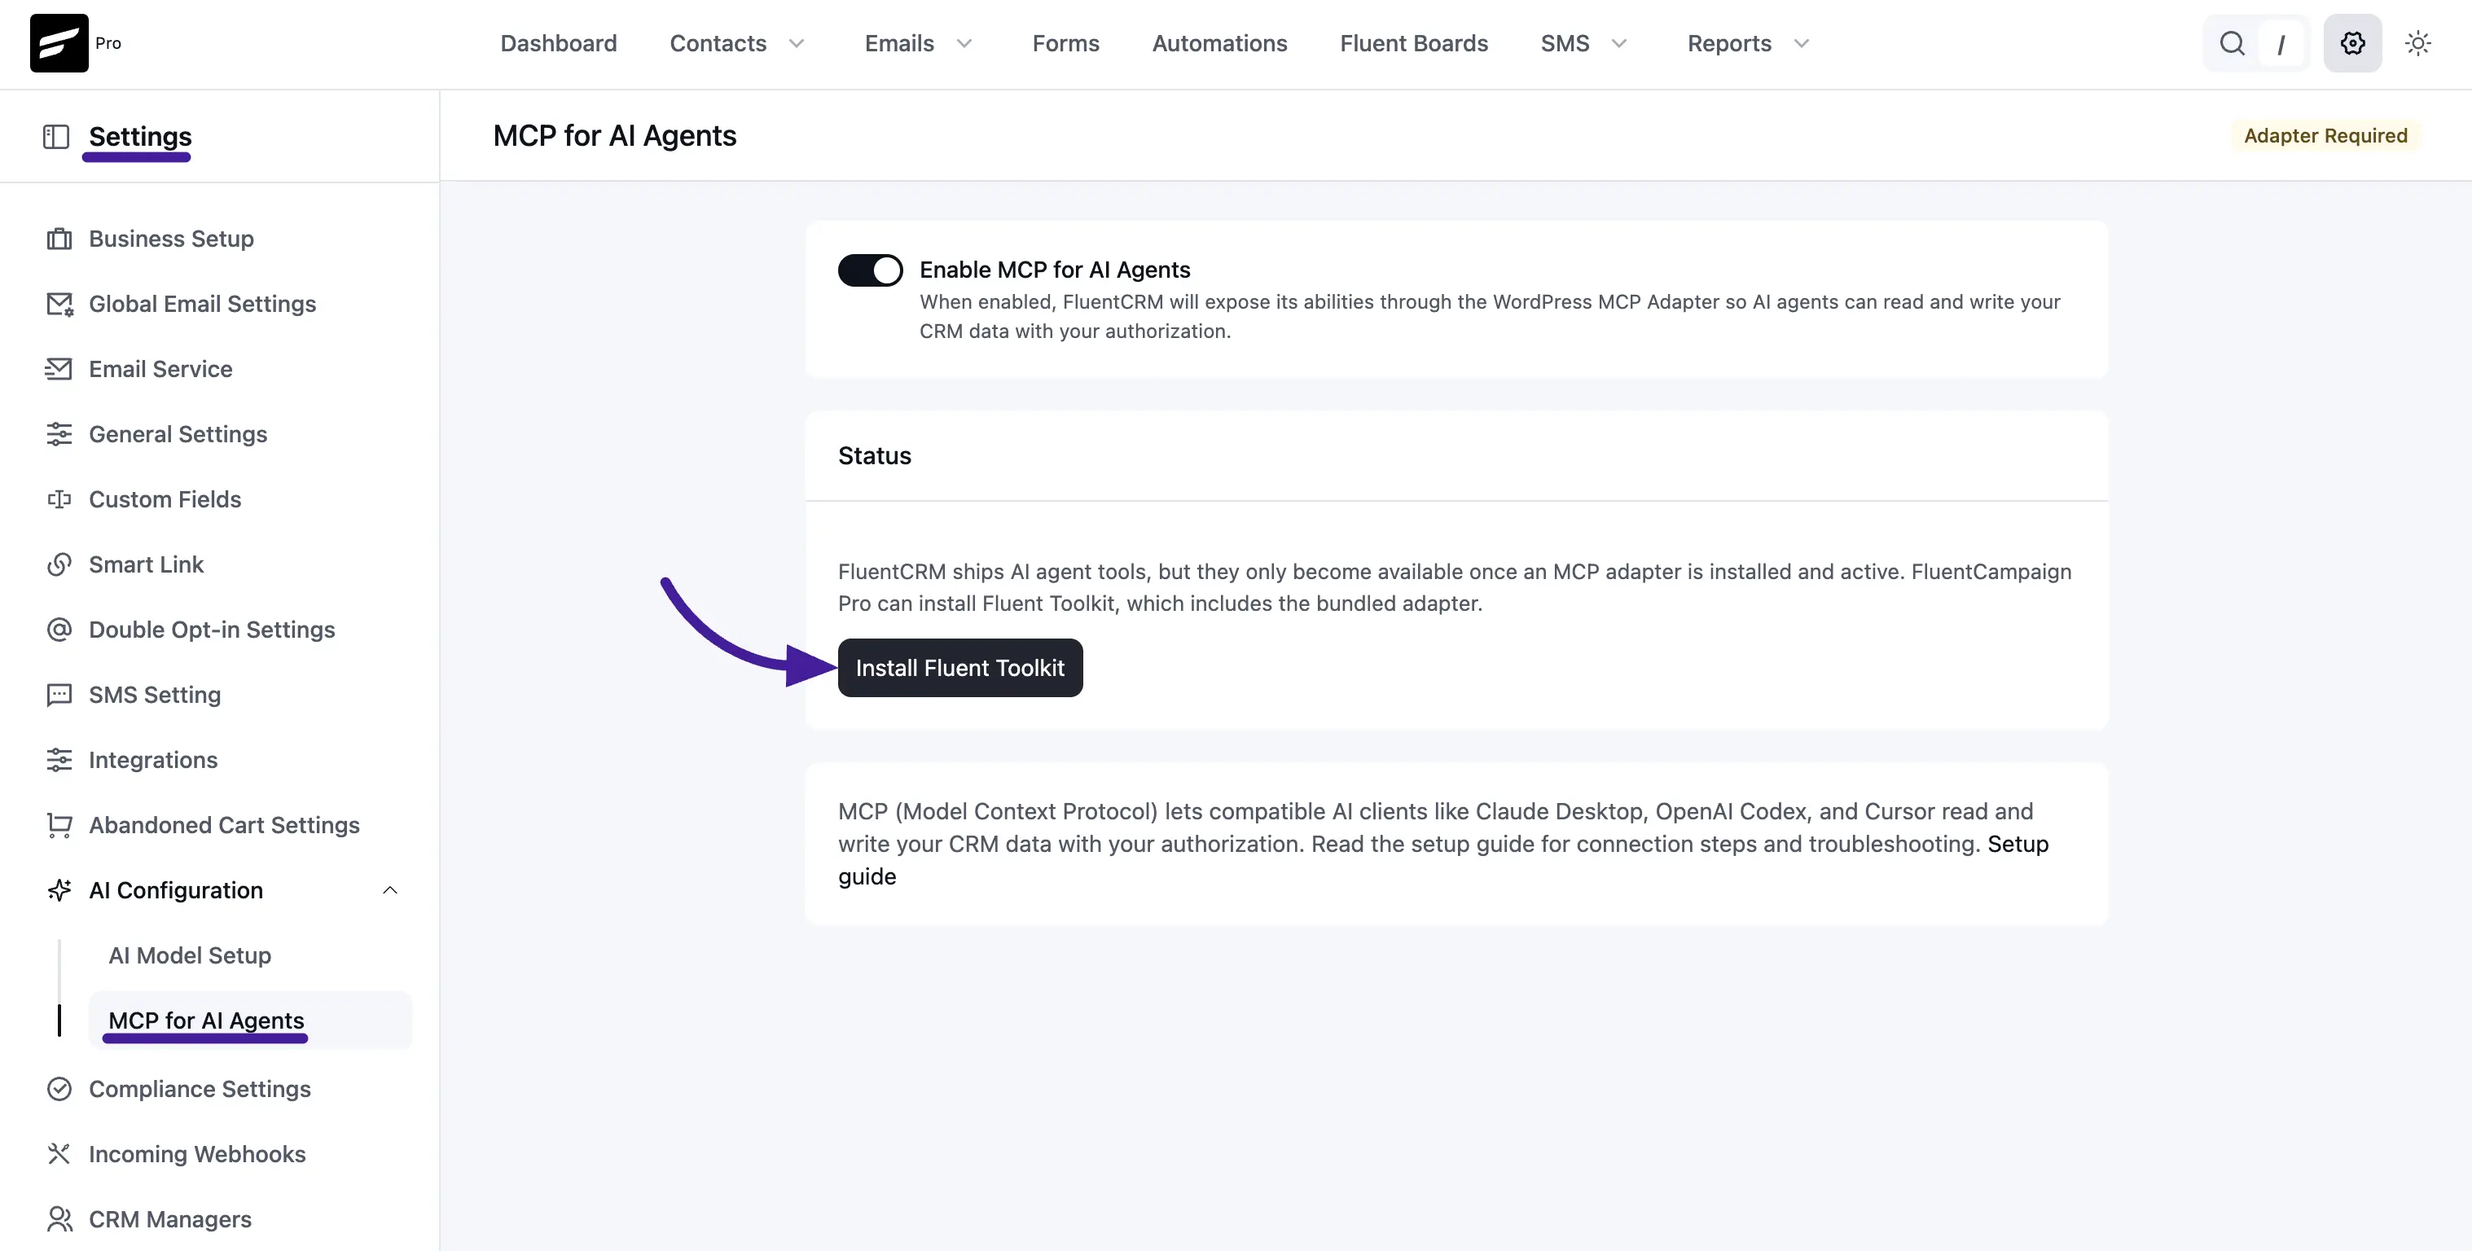
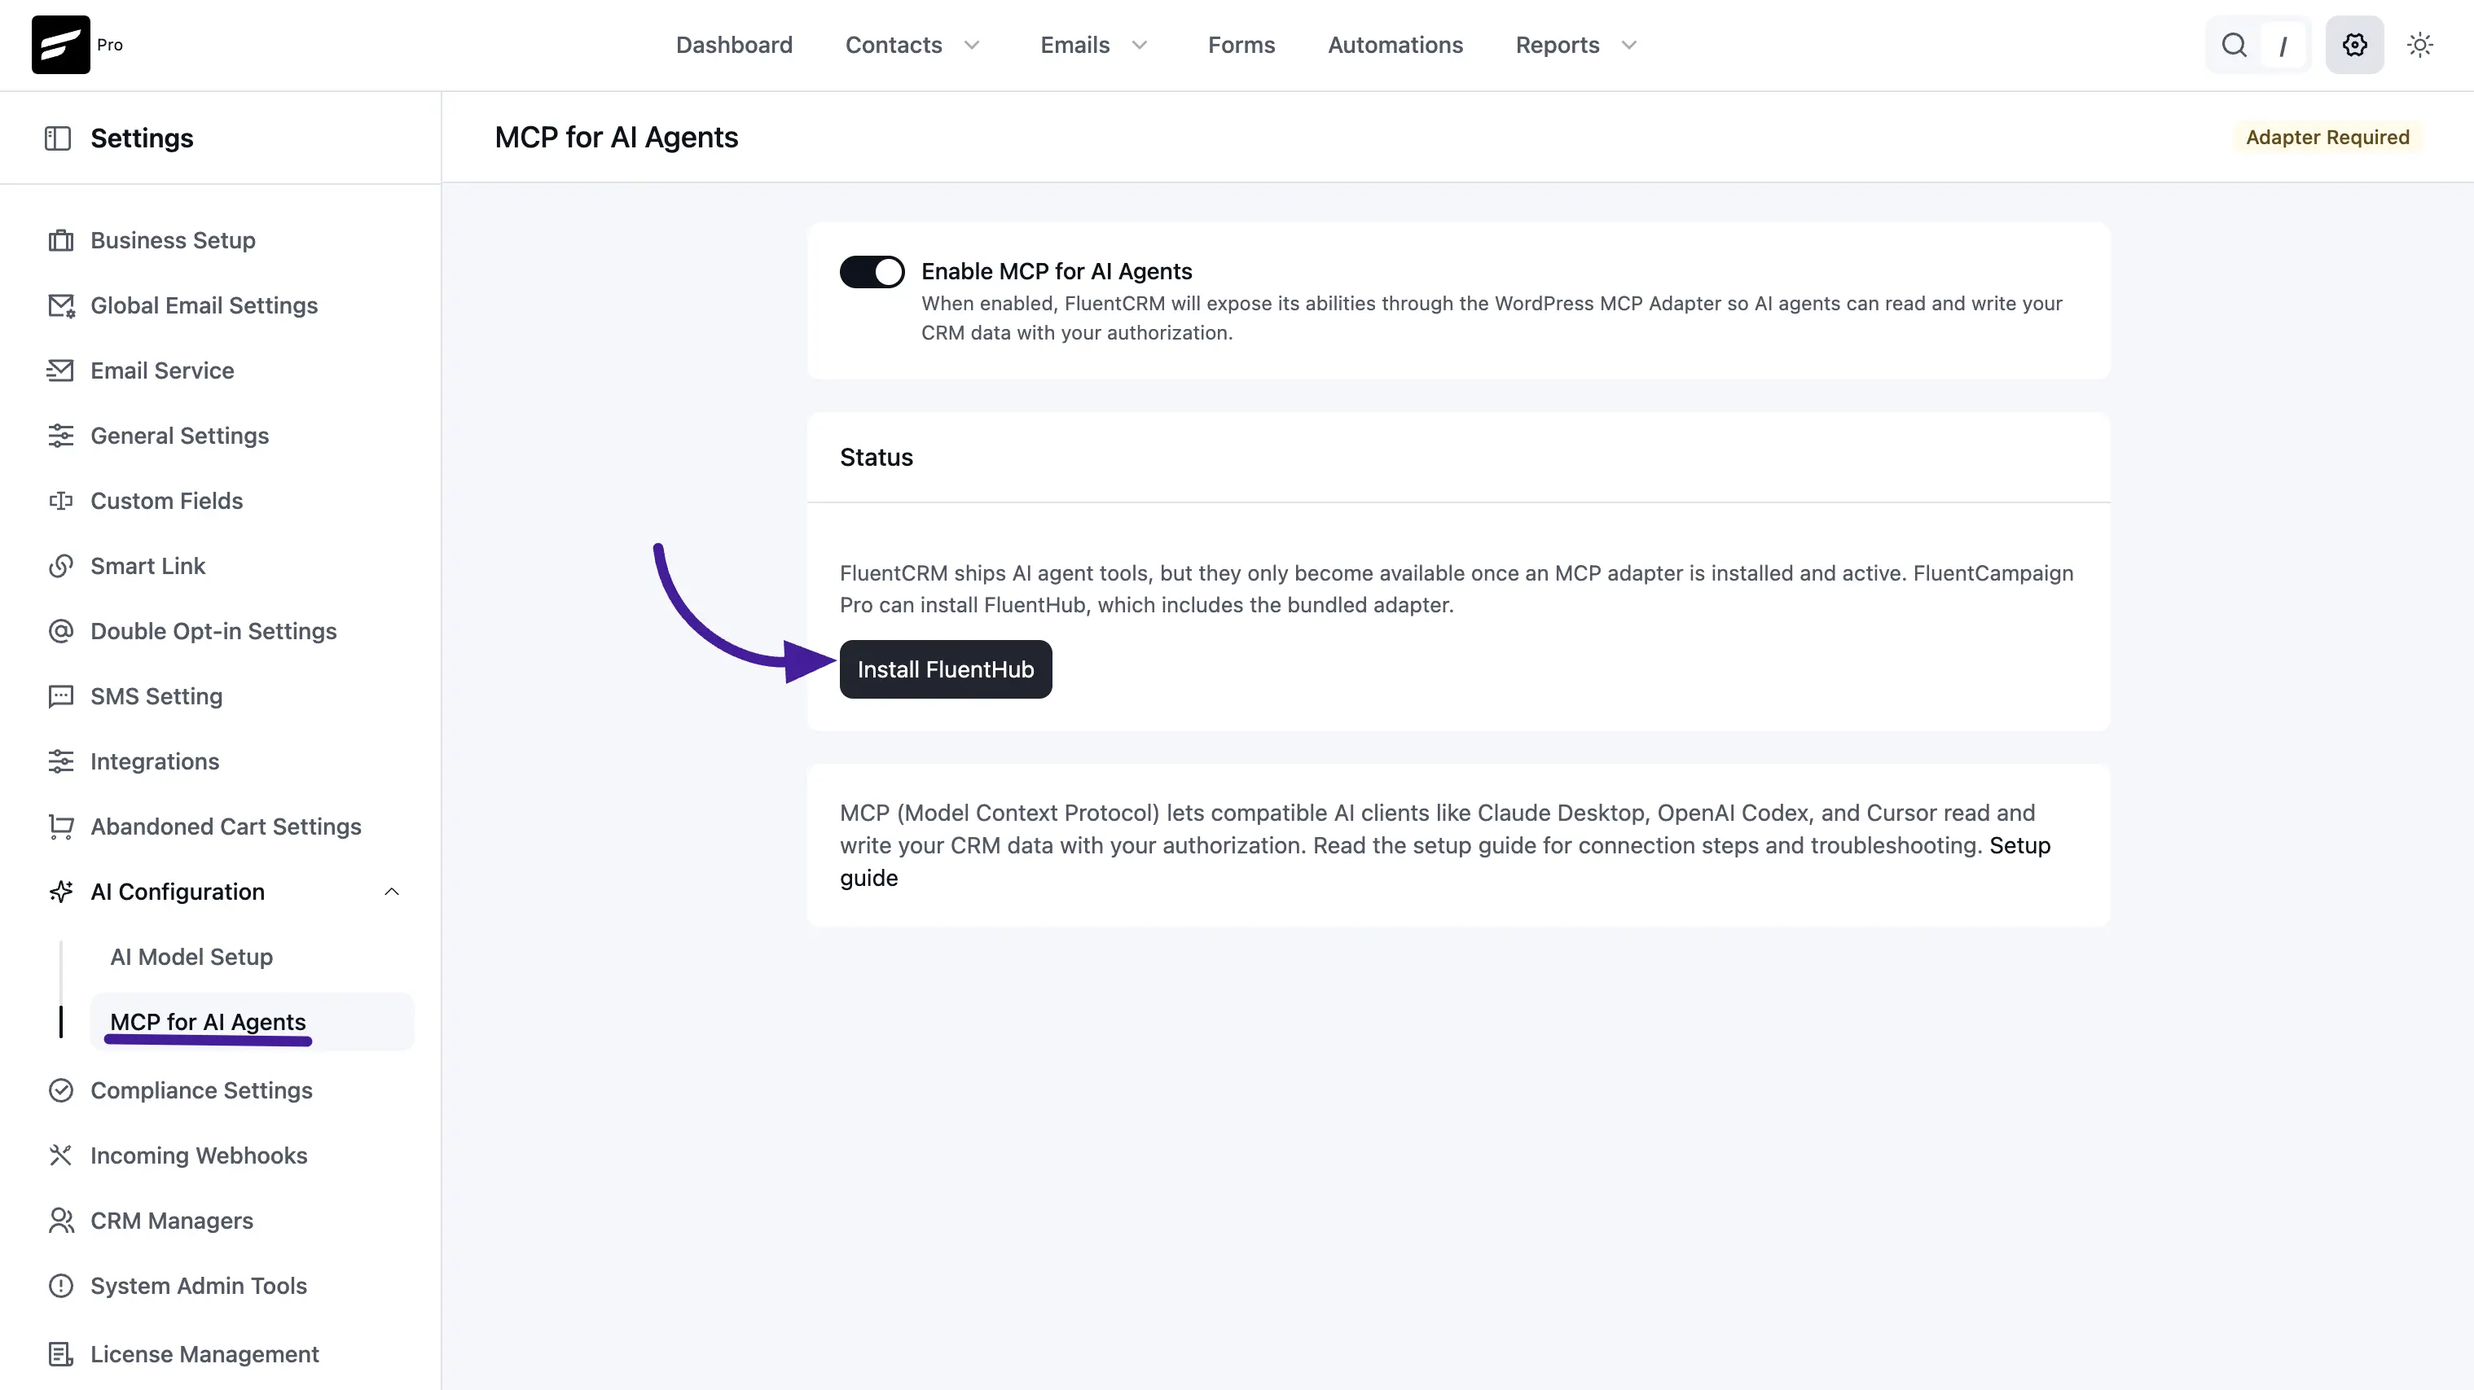
Rename Fluent Toolkit to FluentHub; expand MCP
Update MCP for AI Agents docs: replace "Fluent Toolkit" with "FluentHub" and refresh related copy and screenshot. Expand client setup guidance — add Node.js/npx notes, an AI-agent setup option, and detailed flows for Claude Code, Claude Desktop, and OpenAI Codex. Improve troubleshooting (adapter naming, Node.js errors, JSON syntax issues) and clarify restart requirements for clients. Binary screenshot file updated.

diff --git a/docs/global-settings/mcp-for-ai-agents.md b/docs/global-settings/mcp-for-ai-agents.md
@@ -26,16 +26,16 @@ With the adapter active, switch on the **Enable MCP for AI Agents** toggle at th
 
 If you ever want to pause access for every connected AI client at once, just flip this toggle off. The endpoint stops responding to MCP requests immediately, no other changes needed.
 
-## Step 2: Install Fluent Toolkit
+## Step 2: Install FluentHub
 
-FluentCRM exposes its MCP tools through a small companion plugin called **Fluent Toolkit**. Until it's installed and active, the page shows an **Adapter Required** badge in the top-right and the Status panel offers an install option.
+FluentCRM exposes its MCP tools through a small companion plugin called **FluentHub**. Until it's installed and active, the page shows an **Adapter Required** badge in the top-right and the Status panel offers an install option.
 
-![MCP for AI Agents page showing the Adapter Required state with the Install Fluent Toolkit button](/global-settings/mcp-ai-agent/crm-mcp-2.webp)
+![MCP for AI Agents page showing the Adapter Required state with the Install FluentHub button](/global-settings/mcp-ai-agent/crm-mcp-2.webp)
 
-**FluentCRM Pro users**: Click **Install Fluent Toolkit**. WordPress installs and activates the plugin in the background, then the page refreshes into the connected state.
+**FluentCRM Pro users**: Click **Install FluentHub**. WordPress installs and activates the plugin in the background, then the page refreshes into the connected state.
 
 >[!Note]
-> **Using the free version of FluentCRM?** You won't see the one-click **Install Fluent Toolkit** button. Instead, you'll see a link to download the plugin from GitHub. Download the ZIP from the [Fluent Toolkit GitHub repository](https://github.com/WPManageNinja/fluent-toolkit), then upload it via **Plugins → Add New → Upload Plugin** and activate it. After activation, return to **MCP for AI Agents** and the page will flip into the connected state.
+> **Using the free version of FluentCRM?** You won't see the one-click **Install FluentHub** button. Instead, you'll see a link to download the plugin from GitHub. Download the ZIP from the [FluentHub GitHub repository](https://github.com/WPManageNinja/fluent-toolkit), then upload it via **Plugins → Add New → Upload Plugin** and activate it. After activation, return to **MCP for AI Agents** and the page will flip into the connected state.
 
 ## Step 3: Confirm the Status panel
 
@@ -43,7 +43,7 @@ Once the toggle is on, the **Status** panel shows three details you'll want to k
 
 | Field | What it shows |
 | --- | --- |
-| **Adapter** | The installed Fluent Toolkit version (for example, `Fluent Toolkit 2.0.2`) along with a green **Connected** badge. |
+| **Adapter** | The installed FluentHub version (for example, `FluentHub 2.0.2`) along with a green **Connected** badge. |
 | **Endpoint URL** | The address your AI client connects to, usually `https://your-site.com/wp-json/fluent-crm/mcp`. Click the copy icon to grab it in one click. |
 | **Tools available** | Total number of MCP tools exposed (typically `25`, including 4 FluentCampaign Pro tools when Pro is active). |
 
@@ -52,6 +52,10 @@ A green **Connected** badge in the top-right of the page is your confirmation th
 ## Step 4: Generate a WordPress Application Password
 
 AI clients sign in using a **WordPress Application Password**. This is a feature built directly into WordPress 5.6 and later, so you don't need any extra plugin to use it. Each application gets its own password, which means you can revoke a single AI client without affecting your main login or any of your other tools.
+
+The **Connect a client** panel links straight to the right screen, so you don't have to go looking for it:
+
+![Connect a client panel with an arrow pointing to the Open profile Application Passwords link](/global-settings/mcp-ai-agent/crm-mcp-3.webp)
 
 To create one:
 
@@ -81,7 +85,44 @@ Back on **MCP for AI Agents**, scroll to the **Connect a client** panel. FluentC
 >[!Warning]
 > The generated snippet already contains your encoded credentials. Treat it like a password: never paste it into a public repository, a shared chat, or a screenshot.
 
-### Worked example: connecting Cursor
+### The easiest way: let your AI agent set it up
+
+If editing config files isn't your thing, skip it. Open **Claude Code**, **Claude Desktop**, or **Cursor** in any folder on your computer and ask the AI to do the setup for you. It knows where its own config file lives, it can create the file if it doesn't exist, and it can install anything that's missing along the way.
+
+Copy your snippet from FluentCRM, then paste a prompt like this:
+
+> *"Set up this MCP server for me. First check whether Node.js and npx are installed and install them if they aren't. Then add this configuration to your MCP config file, and tell me if I need to restart anything afterward:"*
+>
+> *(paste your snippet here)*
+
+The agent handles the file paths, the JSON formatting, and the restart instructions. You just confirm when it asks.
+
+>[!Warning]
+> Your snippet contains your login credentials. Only do this in an AI client running on your own computer, and never in a shared or public workspace.
+
+### Before you start: Node.js and npx
+
+Some clients need **Node.js** (which includes `npx`) on your computer:
+
+| Client | Needs Node.js/npx? |
+| --- | --- |
+| **Claude Code** | Yes — the client itself installs through npm. |
+| **Claude Desktop** | Yes — it reaches your site through a small `npx` helper. |
+| **OpenAI Codex** | Yes, if your snippet starts with `npx`. |
+| **Cursor** | No — it connects to the URL directly. |
+
+To check whether you already have it, open Terminal (macOS) or Command Prompt (Windows) and run:
+
+```bash
+node -v
+```
+
+If you see a version number like `v20.11.0`, you're set. If you get "command not found", download the **LTS** installer from [nodejs.org](https://nodejs.org), run it, and close and reopen your terminal.
+
+>[!Tip]
+> Not comfortable in a terminal? Ask your AI agent to check and install it for you, as described above.
+
+### Connecting Cursor
 
 Here's the full Cursor flow as a worked example. The same idea applies to other clients, only the snippet format changes.
 
@@ -113,16 +154,127 @@ Here's the full Cursor flow as a worked example. The same idea applies to other 
 
 That's it. Cursor's AI can now talk to your FluentCRM.
 
-### Other AI clients
+### Connecting Claude Code
 
-The other tabs work the same way, only the snippet format changes to match the client:
+Claude Code is the terminal version of Claude, so its snippet is a command you run rather than a file you edit. This is the quickest setup of the lot.
 
-- **Claude Code**: A terminal command (`claude mcp add ...`) you paste into your terminal. After it runs, the FluentCRM tools appear in your next `claude` session.
-- **Claude Desktop**: A snippet for `claude_desktop_config.json`. Paste it into the file at the path Anthropic documents for your OS, then restart Claude Desktop.
-- **OpenAI Codex**: A configuration block for Codex's settings. Follow the instructions shown under the snippet on the OpenAI Codex tab.
-- **Other**: Generic configuration block you can adapt for any MCP-compliant client.
+**1. Install Claude Code** if you don't have it yet. Open your terminal and run:
 
-In every case, the workflow is the same: fill in the username and password fields, pick the right tab, copy the snippet, and paste it into the AI client where it expects an MCP server config.
+```bash
+npm install -g @anthropic-ai/claude-code
+```
+
+**2. Copy the snippet** from the **Claude Code** tab in FluentCRM. It looks like this:
+
+```bash
+claude mcp add \
+  --transport http \
+  fluent-crm https://your-site.com/wp-json/fluent-crm/mcp \
+  --header "Authorization: Basic <encoded-credentials>"
+```
+
+**3. Paste it into your terminal and press Enter.** You can run it from any folder. Claude Code confirms the server was added.
+
+**4. Start Claude Code** by running `claude`, then type `/mcp` to see your connected servers. **fluent-crm** appears in the list with all its tools.
+
+>[!Tip]
+> Claude Code stores this per project folder by default. To use FluentCRM from any folder on your computer, add `--scope user` to the end of the command.
+
+### Connecting Claude Desktop
+
+Claude Desktop reads its MCP servers from a configuration file. You don't have to hunt for that file, because Claude Desktop will open it for you.
+
+**1. Open the config file from inside Claude Desktop.** Go to **Settings → Developer → Edit Config**. Claude Desktop creates the file if it doesn't exist yet and shows you where it lives:
+
+- **macOS**: `~/Library/Application Support/Claude/claude_desktop_config.json`
+- **Windows**: `%APPDATA%\Claude\claude_desktop_config.json`
+
+**2. Open the file in a plain text editor.** TextEdit on macOS or Notepad on Windows both work fine.
+
+**3. Paste the snippet.** Copy it from the **Claude Desktop** tab in FluentCRM. It looks like this:
+
+```json
+{
+  "mcpServers": {
+    "fluent-crm": {
+      "command": "npx",
+      "args": [
+        "-y",
+        "mcp-remote",
+        "https://your-site.com/wp-json/fluent-crm/mcp",
+        "--header",
+        "Authorization: Basic <encoded-credentials>"
+      ]
+    }
+  }
+}
+```
+
+Where exactly you paste it depends on what's already in the file:
+
+- **The file is empty, or contains just `{}`** — delete whatever is there and paste the whole snippet in. Done.
+- **The file already has other MCP servers** — don't paste the whole thing, or you'll wipe them out. Instead, copy only the `"fluent-crm": { ... }` part and add it inside the existing `"mcpServers"` block, with a comma after the entry above it:
+
+```json
+{
+  "mcpServers": {
+    "some-existing-server": {
+      "command": "npx",
+      "args": ["-y", "some-package"]
+    },
+    "fluent-crm": {
+      "command": "npx",
+      "args": [
+        "-y",
+        "mcp-remote",
+        "https://your-site.com/wp-json/fluent-crm/mcp",
+        "--header",
+        "Authorization: Basic <encoded-credentials>"
+      ]
+    }
+  }
+}
+```
+
+**4. Save the file and fully quit Claude Desktop**, then open it again. Closing the window isn't enough: quit it from the menu bar (macOS) or the system tray (Windows).
+
+**5. Check the connection.** Look for the tools or connectors icon in the message box. **fluent-crm** appears there with its tools listed.
+
+>[!Warning]
+> This file must stay valid JSON. A missing comma or an extra one stops Claude Desktop from loading any of your servers. If Claude Desktop starts without your tools, a punctuation slip in this file is the usual reason — paste the file into your AI agent and ask it to check the syntax.
+
+### Connecting OpenAI Codex
+
+Codex keeps its MCP servers in a configuration file at `~/.codex/config.toml`, written in TOML rather than JSON.
+
+**1. Copy the snippet** from the **OpenAI Codex** tab in FluentCRM.
+
+**2. Open `~/.codex/config.toml`.** If the file or the `.codex` folder doesn't exist, create it. On macOS, press <kbd>Cmd</kbd> + <kbd>Shift</kbd> + <kbd>G</kbd> in Finder and type `~/.codex` to get there.
+
+**3. Paste the snippet at the end of the file.** TOML blocks stack one after another, so you can add it below whatever is already there without touching the rest. It looks roughly like this:
+
+```toml
+[mcp_servers.fluent-crm]
+command = "npx"
+args = [
+  "-y",
+  "mcp-remote",
+  "https://your-site.com/wp-json/fluent-crm/mcp",
+  "--header",
+  "Authorization: Basic <encoded-credentials>"
+]
+```
+
+**4. Save the file and restart Codex.** Your FluentCRM tools are available in the next session.
+
+>[!Note]
+> Always use the snippet FluentCRM generates rather than the example above. Codex has changed its MCP configuration format between versions, and the plugin generates the format that matches the current release.
+
+### Other MCP clients
+
+The **Other** tab gives you a generic configuration block you can adapt for any MCP-compliant client. Point the client at your **Endpoint URL**, pass the `Authorization: Basic` header exactly as generated, and you're connected.
+
+In every case the workflow is the same: fill in the username and password fields, pick the right tab, copy the snippet, and paste it where your AI client expects an MCP server config.
 
 ## Step 6: Verify it's working
 
@@ -233,8 +385,10 @@ Application Passwords are scoped to a single connection, so revoking one only di
 
 ## Troubleshooting
 
-- **"Adapter Required" badge still showing after install.** Hard-refresh the settings page. If it persists, go to **Plugins** and confirm **Fluent Toolkit** is both installed and **Active**.
+- **"Adapter Required" badge still showing after install.** Hard-refresh the settings page. If it persists, go to **Plugins** and confirm **FluentHub** is both installed and **Active**.
 - **Tools available shows 0.** Make sure the **Enable MCP for AI Agents** toggle is on. The count refreshes the moment the adapter reconnects.
 - **"Unauthorized" error in the AI client.** The username or Application Password is wrong. Re-generate the password (copy it immediately) and paste it back into the Connect a client panel, then re-copy the snippet into your AI client.
-- **FluentCRM tools not appearing in the AI client.** Restart the client fully after running the connect command or saving `mcp.json`. Some clients (like Claude Code) need a full restart, not just a reload.
+- **FluentCRM tools not appearing in the AI client.** Restart the client fully after running the connect command or saving the config file. Closing the window usually isn't enough — quit Claude Desktop from the menu bar or system tray and reopen it.
+- **Claude Desktop or Codex shows a "server failed to start" error.** Node.js is probably missing. Run `node -v` in your terminal; if you get "command not found", install the LTS release from [nodejs.org](https://nodejs.org) and restart the client.
+- **Claude Desktop loses all its MCP servers after an edit.** `claude_desktop_config.json` has a JSON syntax error, usually a missing or extra comma. Paste the file into your AI agent and ask it to fix the syntax.
 - **Connection works locally but not in production.** Confirm the **Endpoint URL** in Status uses the same scheme (`http` or `https`) and domain your AI client is configured with. WordPress Application Passwords also require a reachable REST API at `/wp-json/`.
